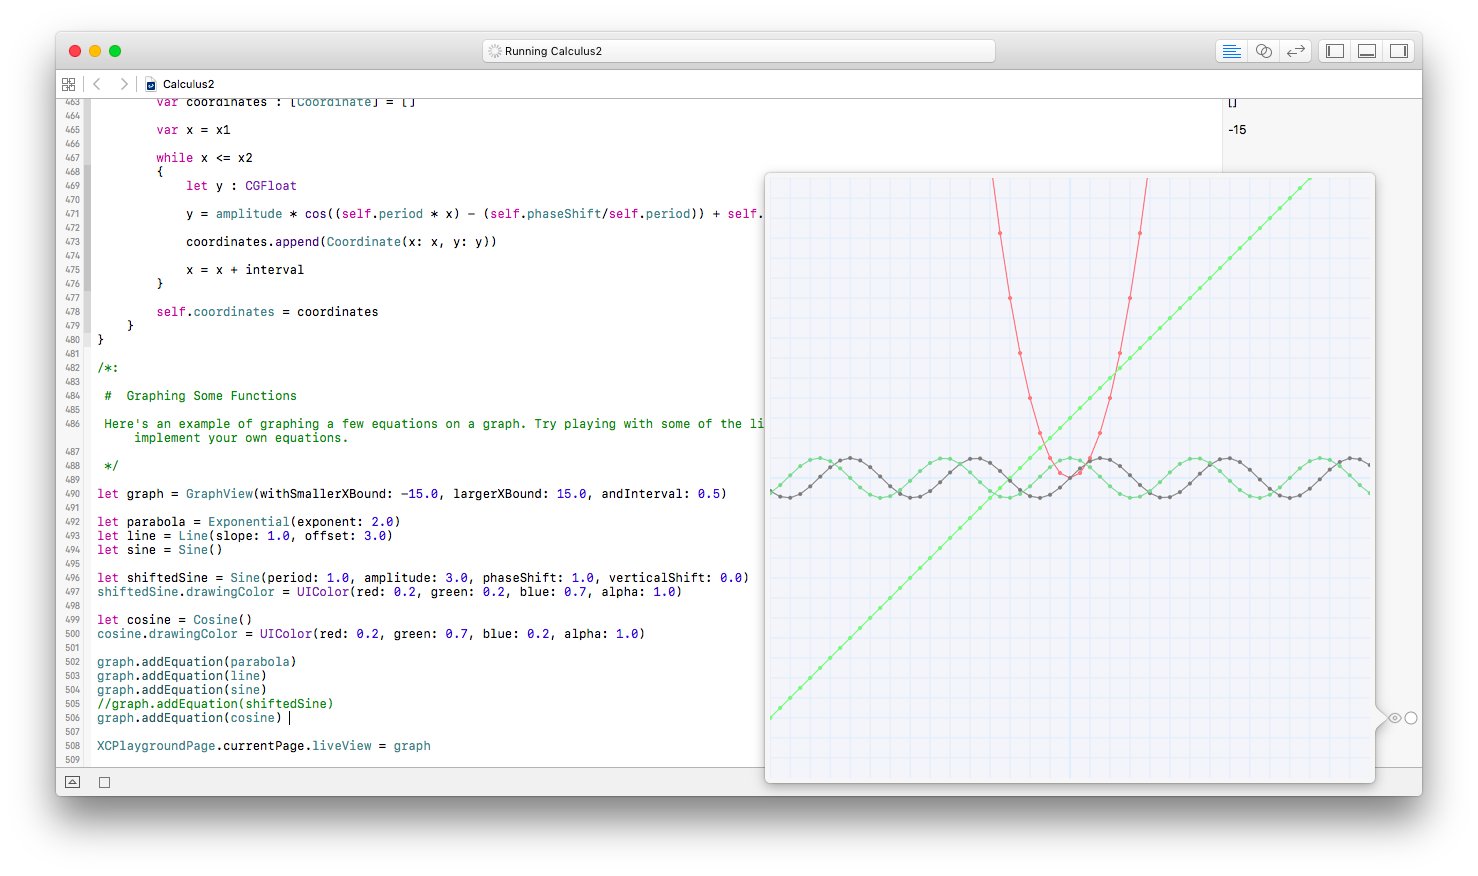
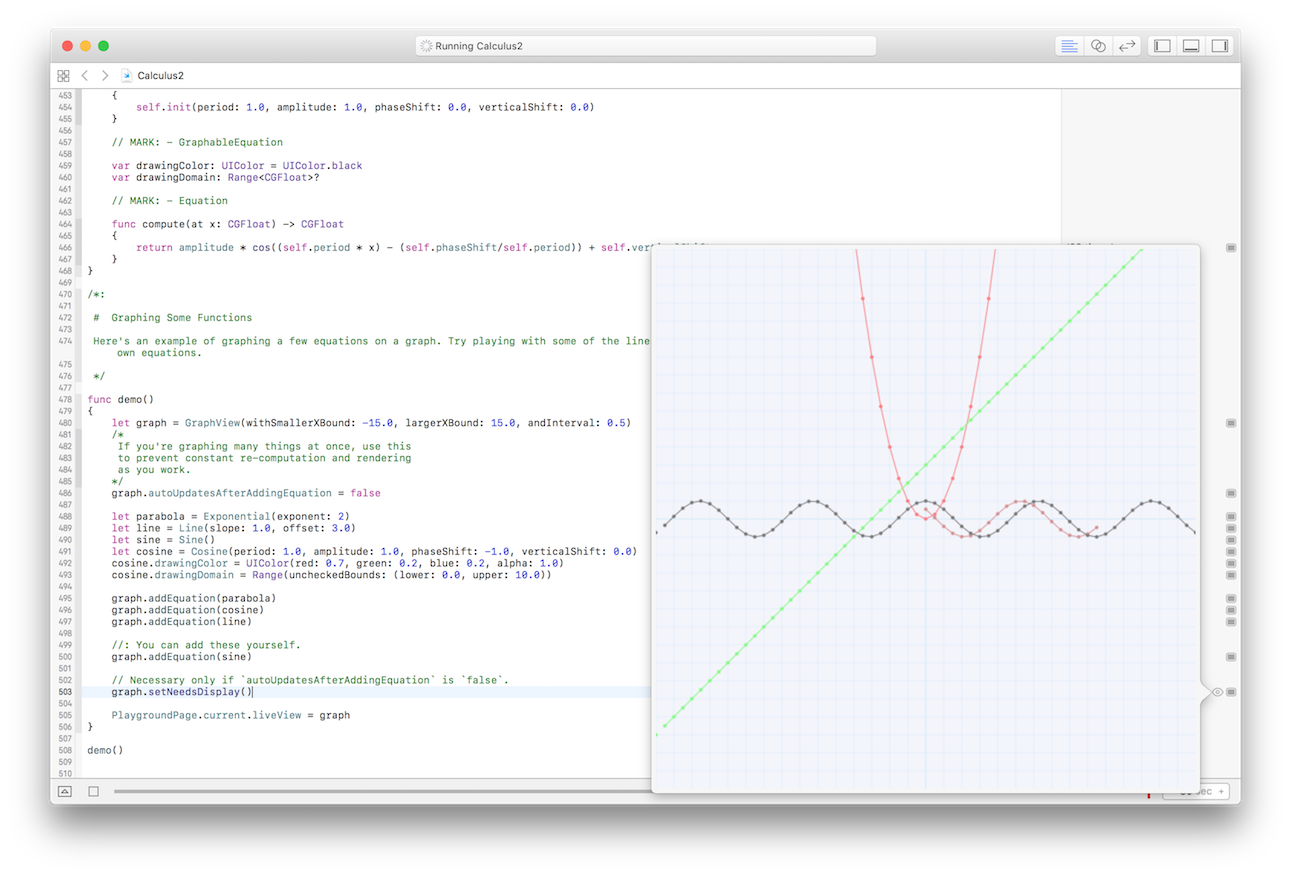
Updated demo code and sample screenshot.

diff --git a/Calculus2.playground/Contents.swift b/Calculus2.playground/Contents.swift
@@ -163,7 +163,7 @@ class GraphView : UIView
         let previousX = x - self.interval
         var rangeContainsPreviousX = true
         
-        if let range = equation.graphingDomain
+        if let range = equation.drawingDomain
         {
             // Don't draw dangling lines at the start of the graph.
             rangeContainsPreviousX = range.contains(previousX)
@@ -485,18 +485,19 @@ func demo()
     */
     graph.autoUpdatesAfterAddingEquation = false 
 
+    let parabola = Exponential(exponent: 2)
     let line = Line(slope: 1.0, offset: 3.0)
     let sine = Sine()
-    
     let cosine = Cosine(period: 1.0, amplitude: 1.0, phaseShift: -1.0, verticalShift: 0.0)
     cosine.drawingColor = UIColor(red: 0.7, green: 0.2, blue: 0.2, alpha: 1.0)
-    cosine.domain = Range(uncheckedBounds: (lower: 0.0, upper: 10.0))
+    cosine.drawingDomain = Range(uncheckedBounds: (lower: 0.0, upper: 10.0))
 
+    graph.addEquation(parabola)
     graph.addEquation(cosine)
     graph.addEquation(line)
     
     //: You can add these yourself.
-    //    graph.addEquation(sine)
+    graph.addEquation(sine)
     
     // Necessary only if `autoUpdatesAfterAddingEquation` is `false`.
     graph.setNeedsDisplay()
